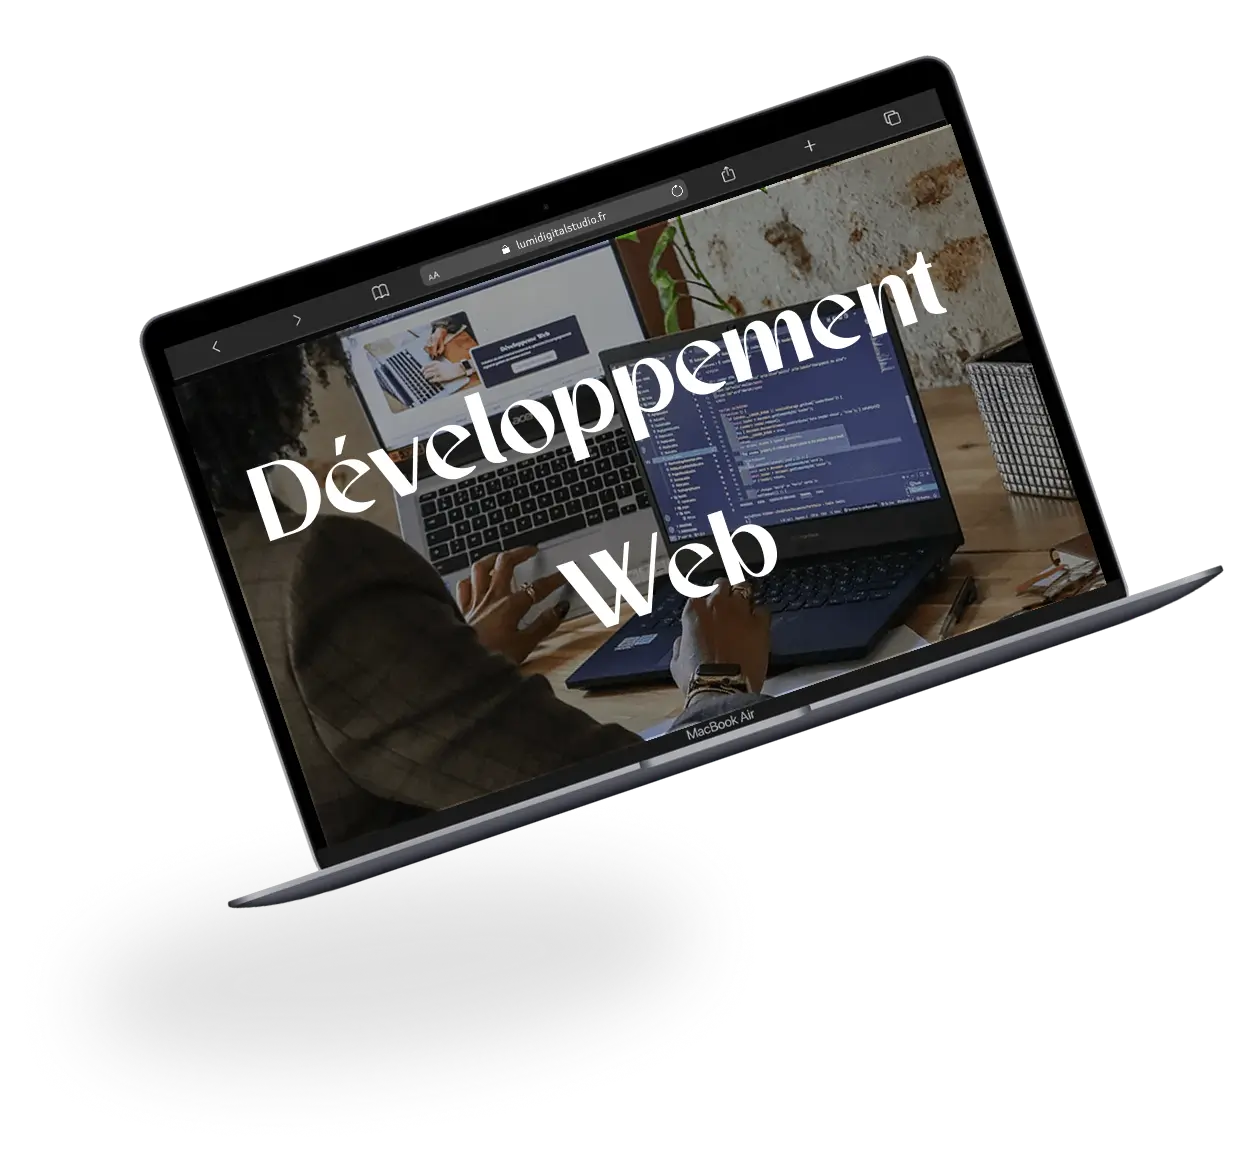
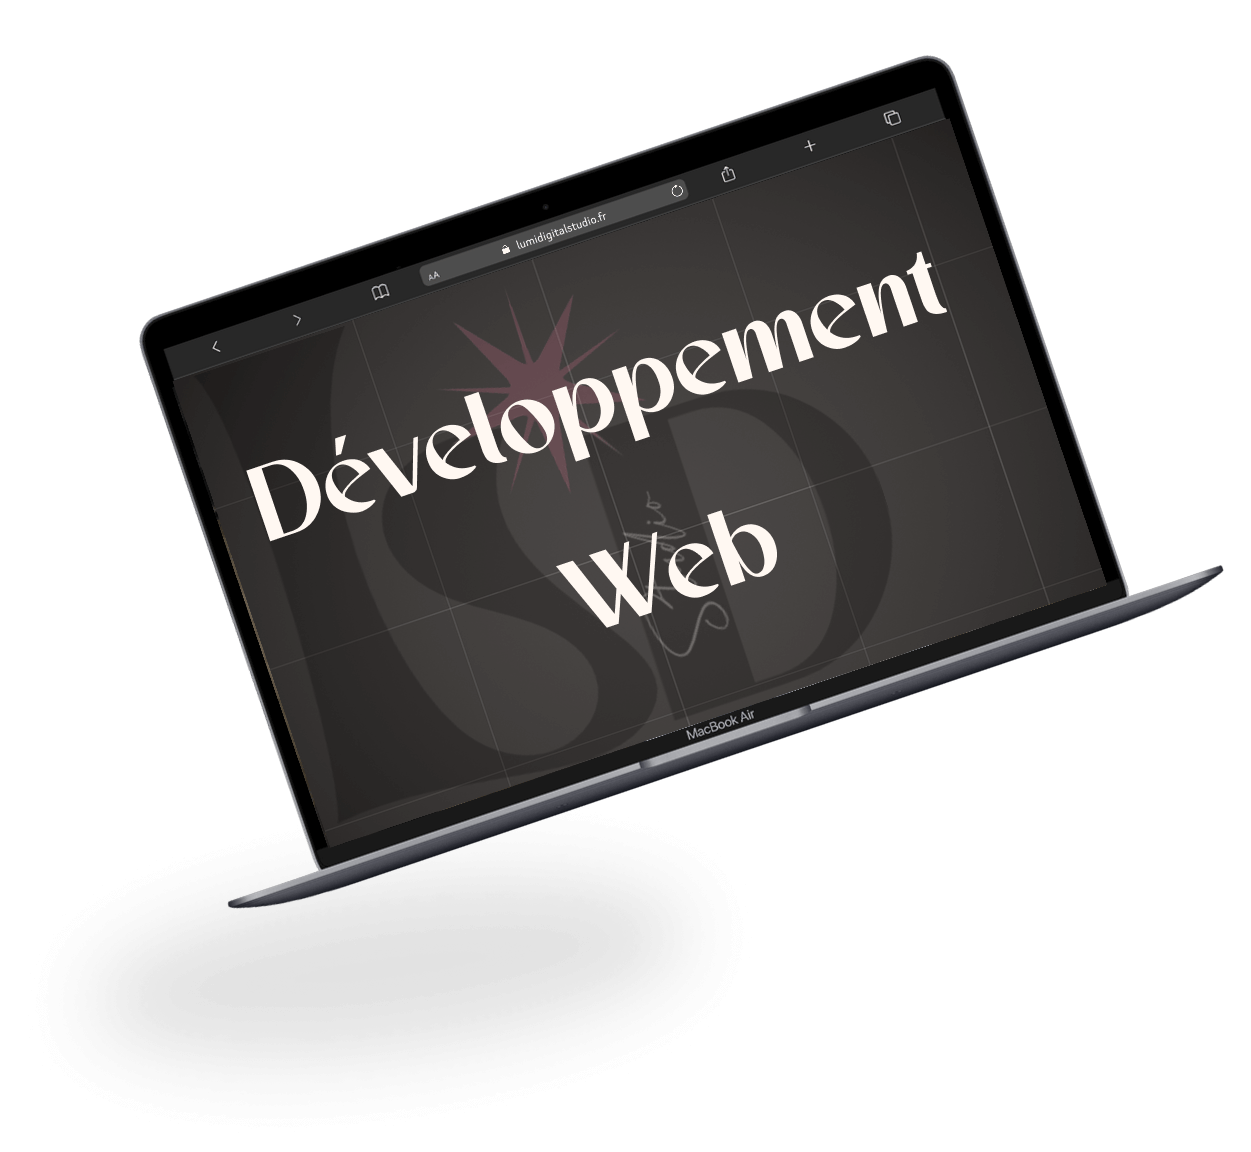
modification projet fleuriste, image ordi hero, page à propos

Changed region(s): [[0.1247, 0.0938, 0.8729, 0.6875], [0.2494, 0.6875, 0.3429, 0.75]]

diff --git a/google2b301477ee9d5bef.html b/google2b301477ee9d5bef.html
@@ -1,0 +1,1 @@
+google-site-verification: google2b301477ee9d5bef.html
